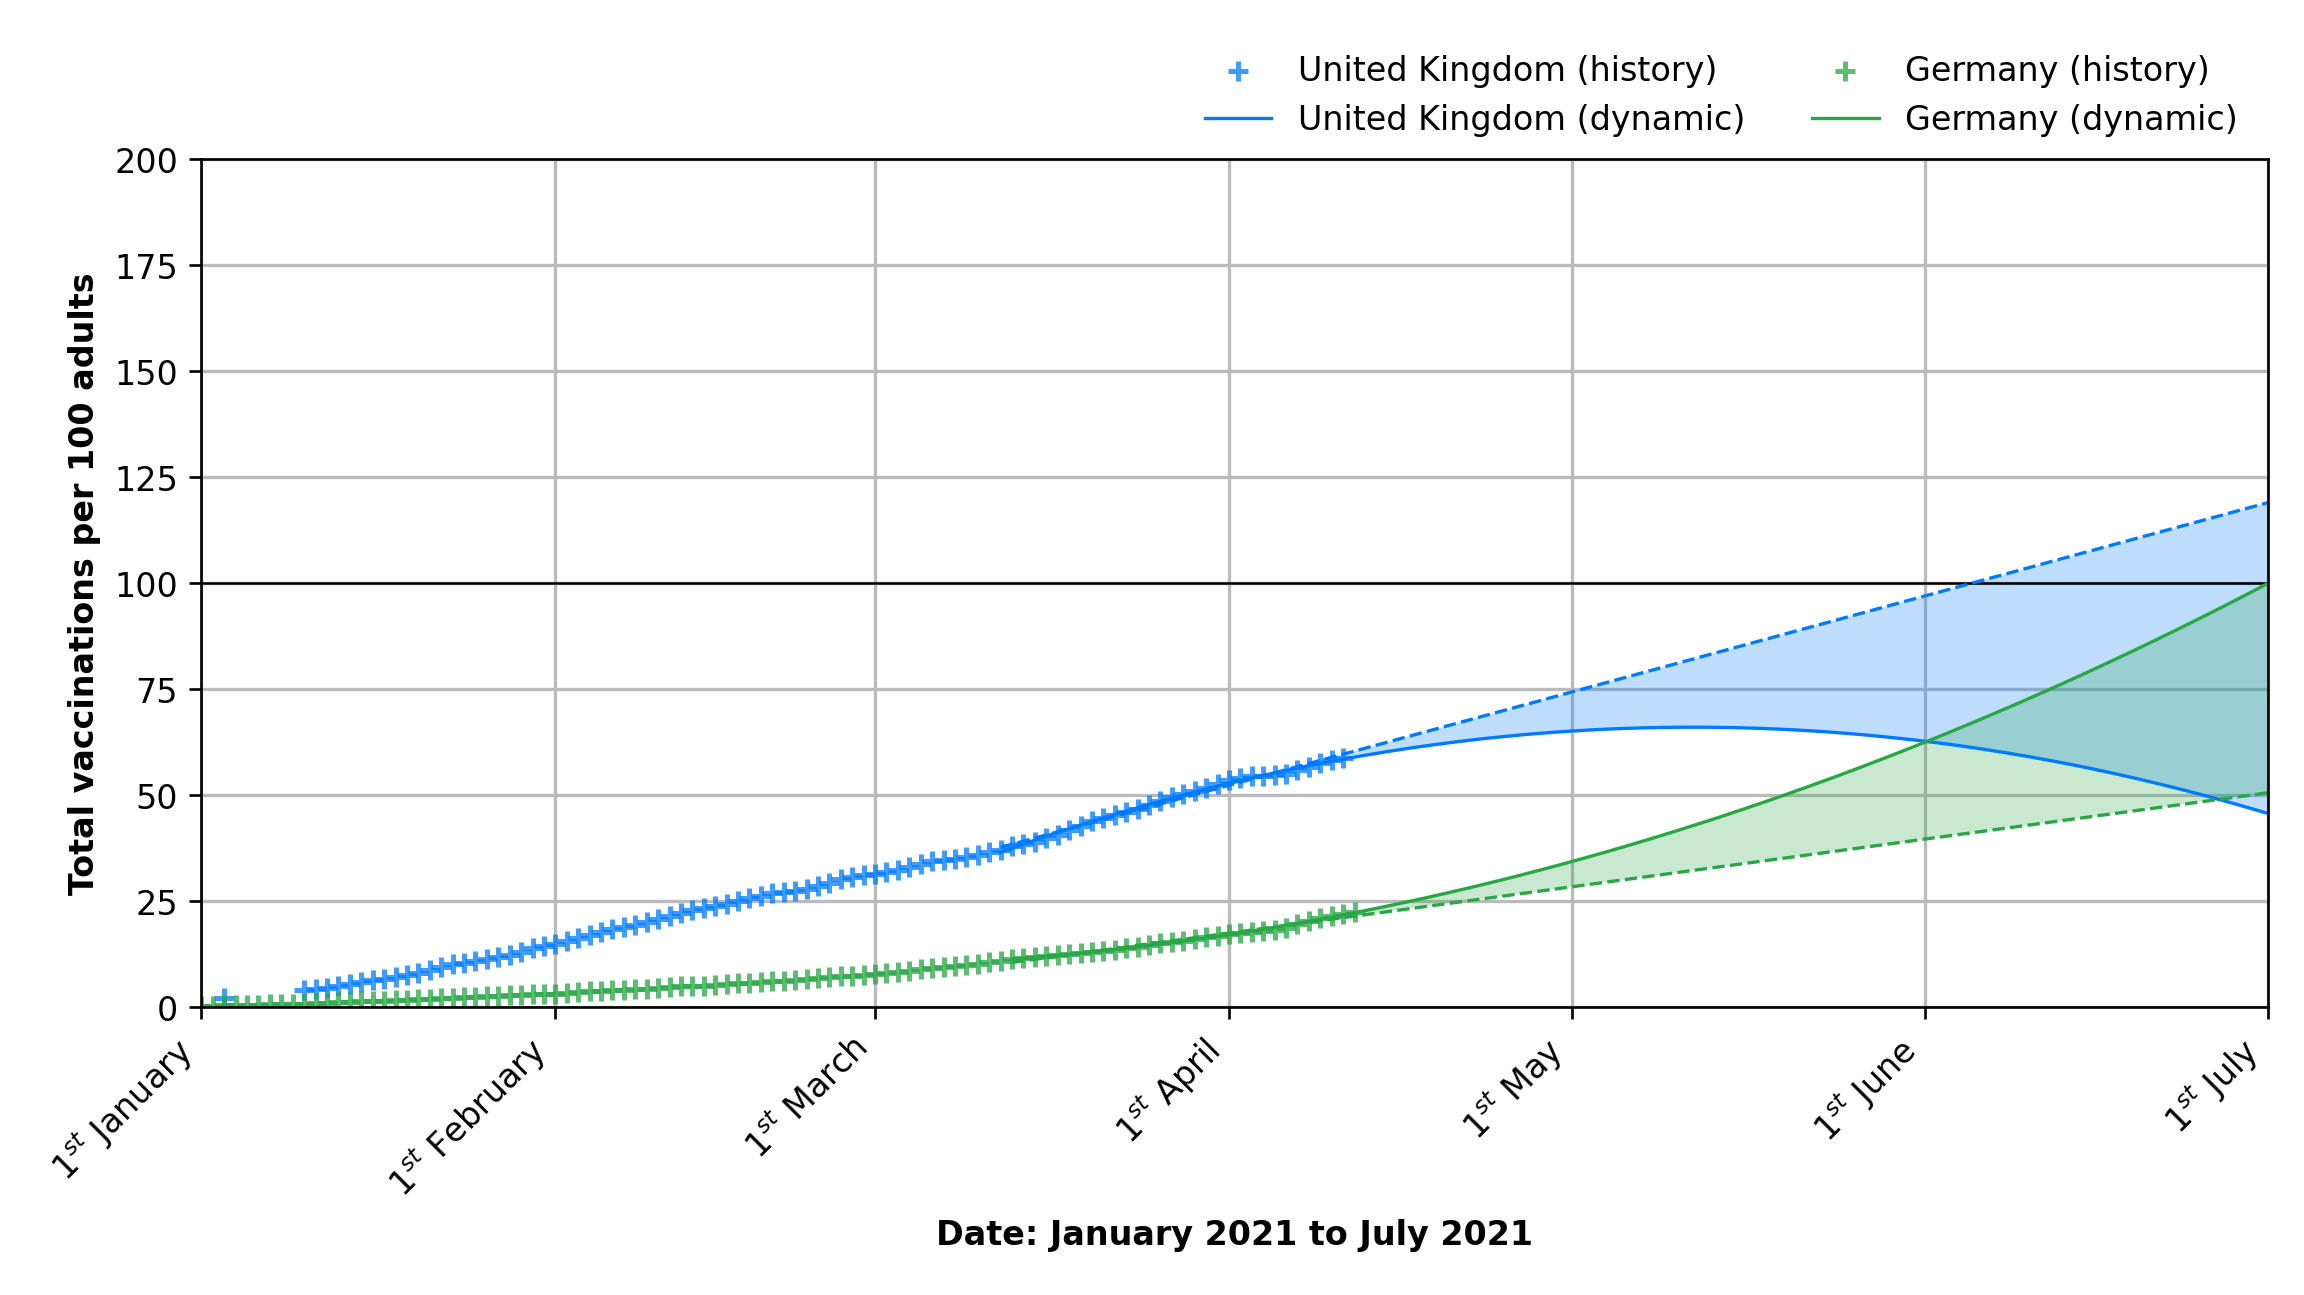
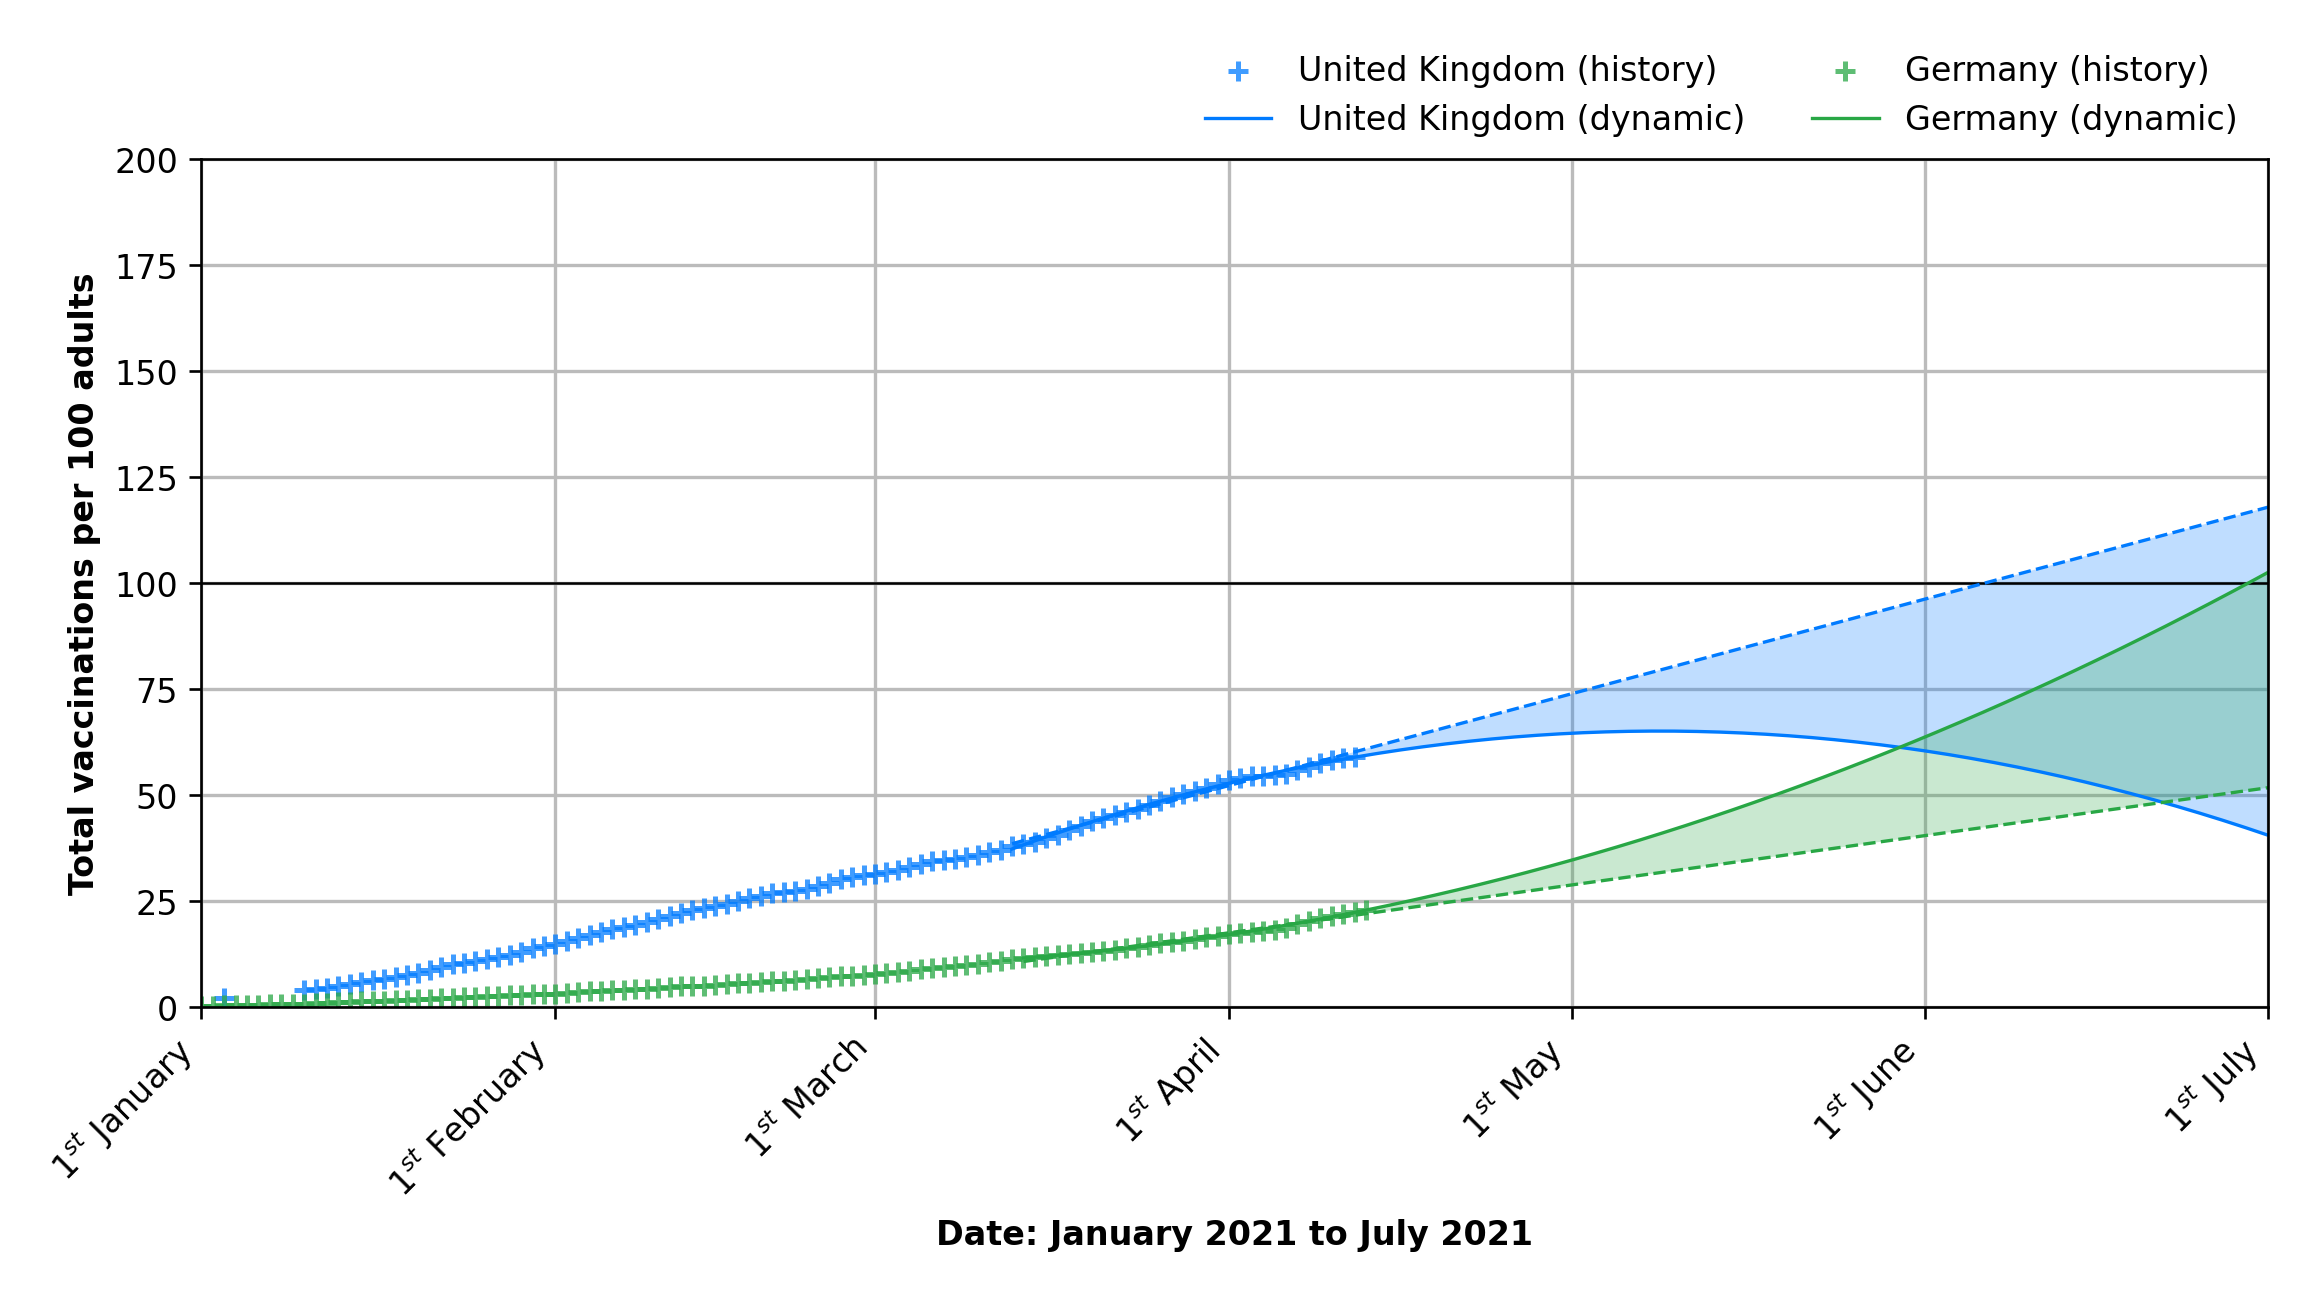
Deploying to gh-pages from @ lambdapioneer/vactrend@0b151e50bae144ff27c39ffb07cd62d871ed93a9 🚀

diff --git a/index.html b/index.html
@@ -37,13 +37,13 @@
                 <div class="card">
                     <div class="card-header">🇬🇧 United Kingdom</div>
                     <div class="card-body">
-                        <h3 class="font-weight-bold" style="color: #007bff">58.7 <small>(+0.38/d)</small></h3>
+                        <h3 class="font-weight-bold" style="color: #007bff">59.08 <small>(+0.38/d)</small></h3>
                         <p class="mt-n2">Vaccinations per 100 adults</p>
-                        <h3 class=" font-weight-bold">06 June 2021</h3>
+                        <h3 class=" font-weight-bold">07 June 2021</h3>
                         <p class="mt-n2">Earliest day: 100 vacc. per 100 adults</p>
-                        <h3 class=" font-weight-bold">20 October 2021</h3>
+                        <h3 class=" font-weight-bold">23 October 2021</h3>
                         <p class="mt-n2">Earliest day: 200 vacc. per 100 adults</p>
-                        <p class="card-text"><small class="text-muted">Last data from 11 April 2021.</small></p>
+                        <p class="card-text"><small class="text-muted">Last data from 12 April 2021.</small></p>
                     </div>
                 </div>
             </div>
@@ -52,13 +52,13 @@
                 <div class="card">
                     <div class="card-header">🇩🇪 Germany</div>
                     <div class="card-body">
-                        <h3 class="font-weight-bold" style="color: #28a745">22.3 <small>(+0.48/d)</small></h3>
+                        <h3 class="font-weight-bold" style="color: #28a745">22.97 <small>(+0.63/d)</small></h3>
                         <p class="mt-n2">Vaccinations per 100 adults</p>
-                        <h3 class=" font-weight-bold">02 July 2021</h3>
+                        <h3 class=" font-weight-bold">30 June 2021</h3>
                         <p class="mt-n2">Earliest day: 100 vacc. per 100 adults</p>
-                        <h3 class=" font-weight-bold">28 August 2021</h3>
+                        <h3 class=" font-weight-bold">25 August 2021</h3>
                         <p class="mt-n2">Earliest day: 200 vacc. per 100 adults</p>
-                        <p class="card-text"><small class="text-muted">Last data from 12 April 2021.</small></p>
+                        <p class="card-text"><small class="text-muted">Last data from 13 April 2021.</small></p>
                     </div>
                 </div>
             </div>
